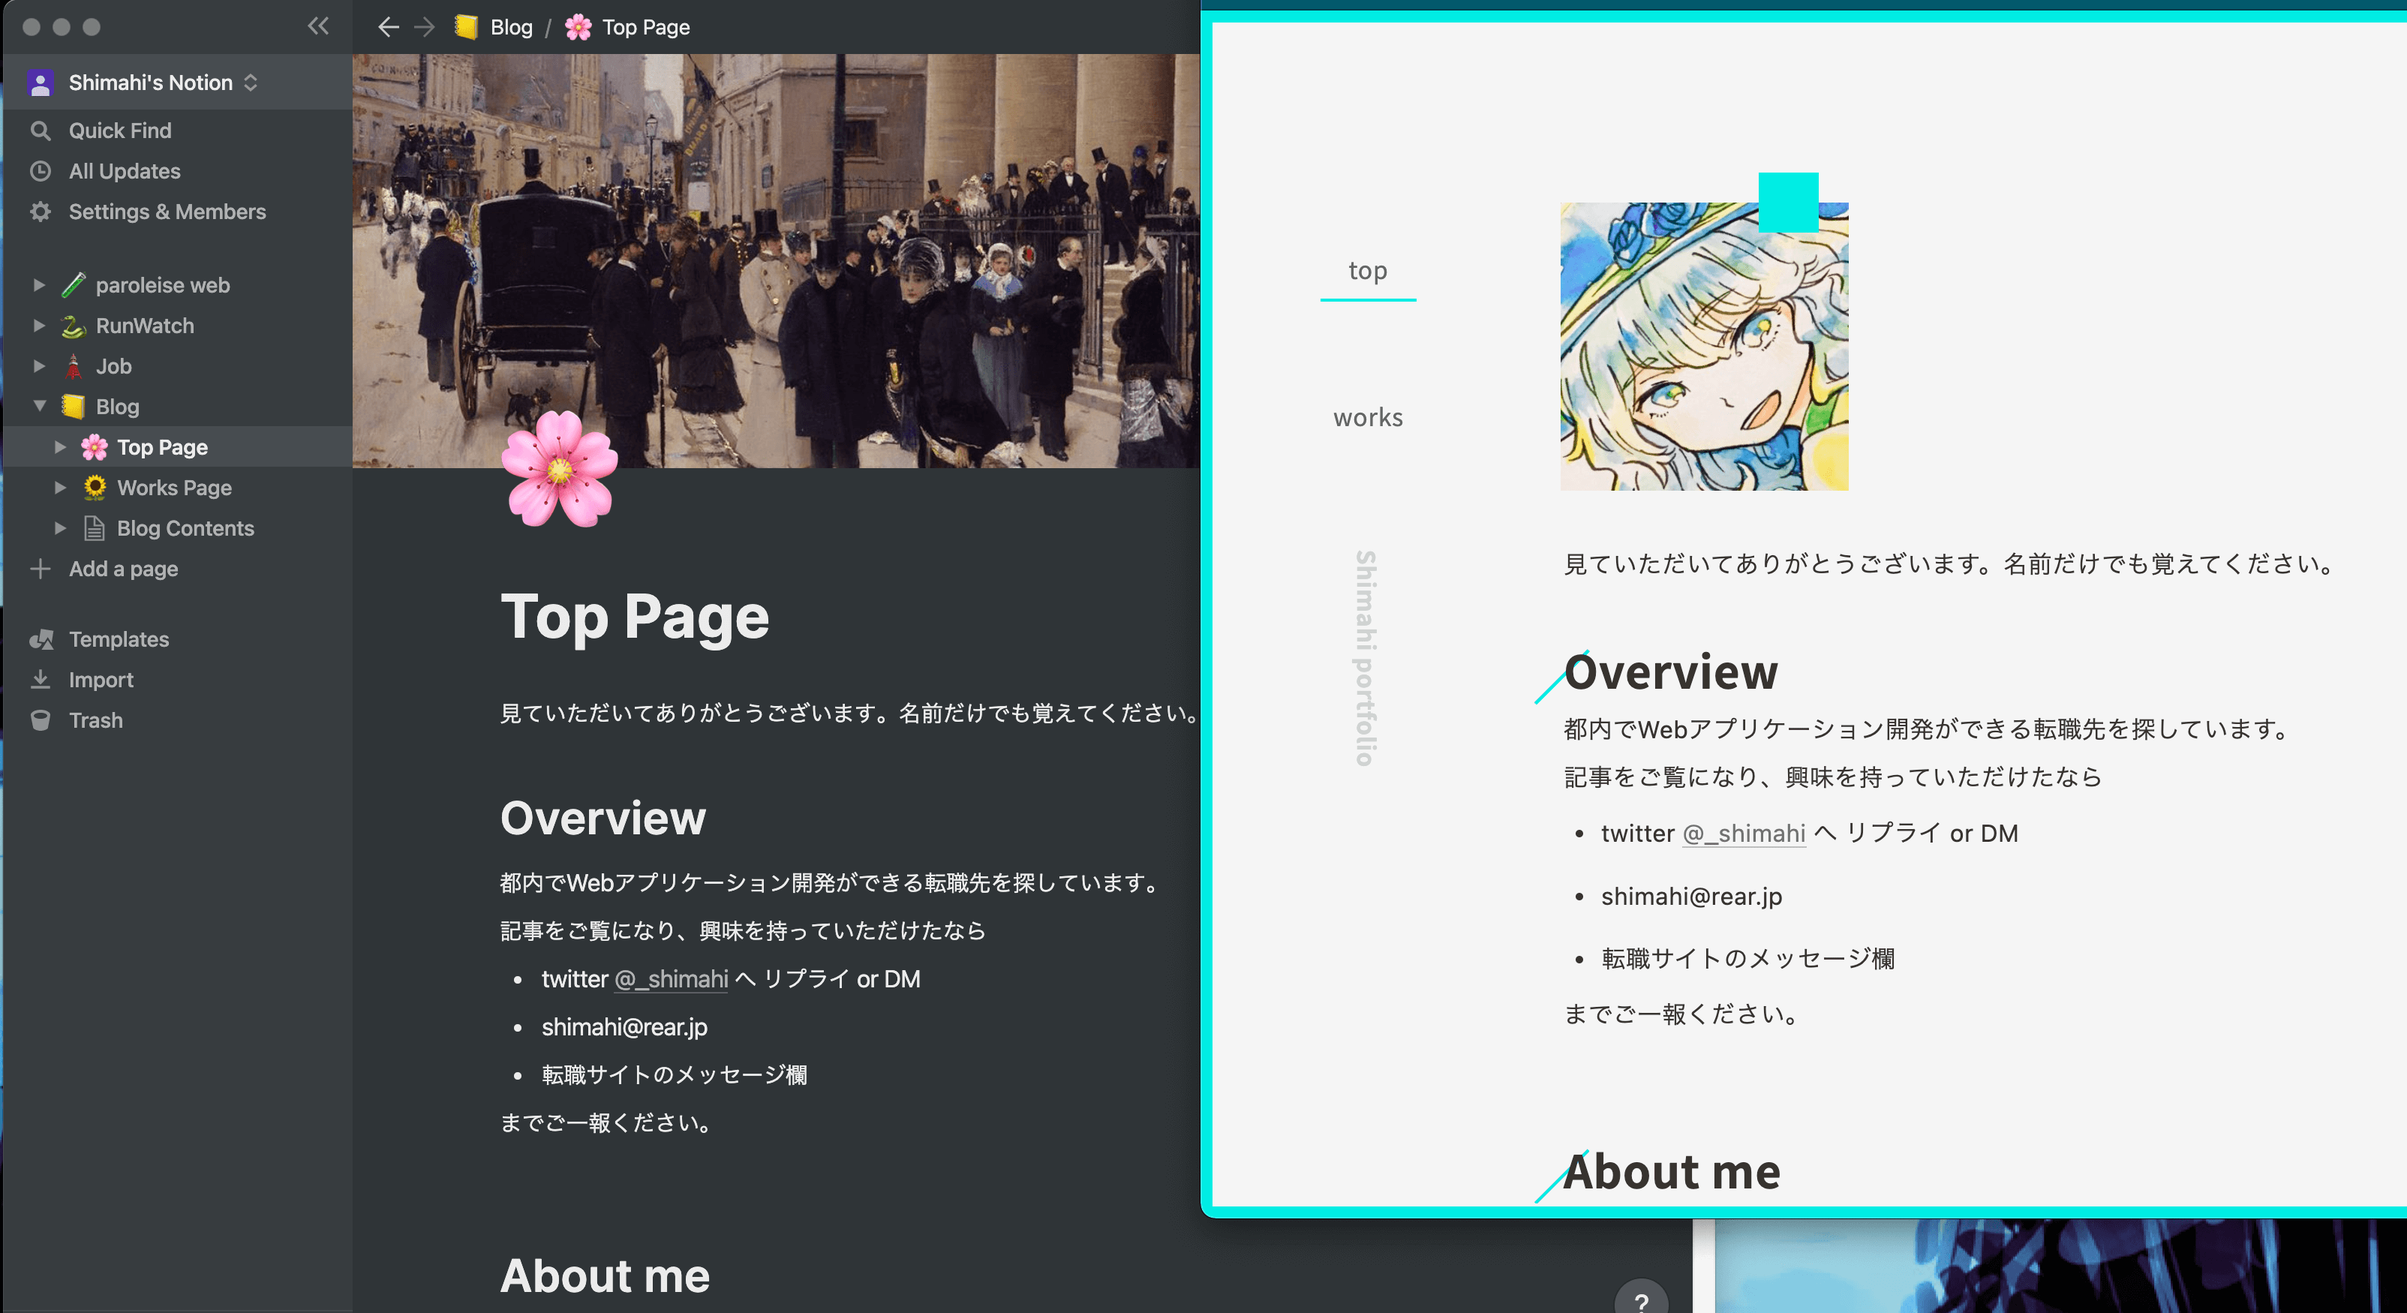
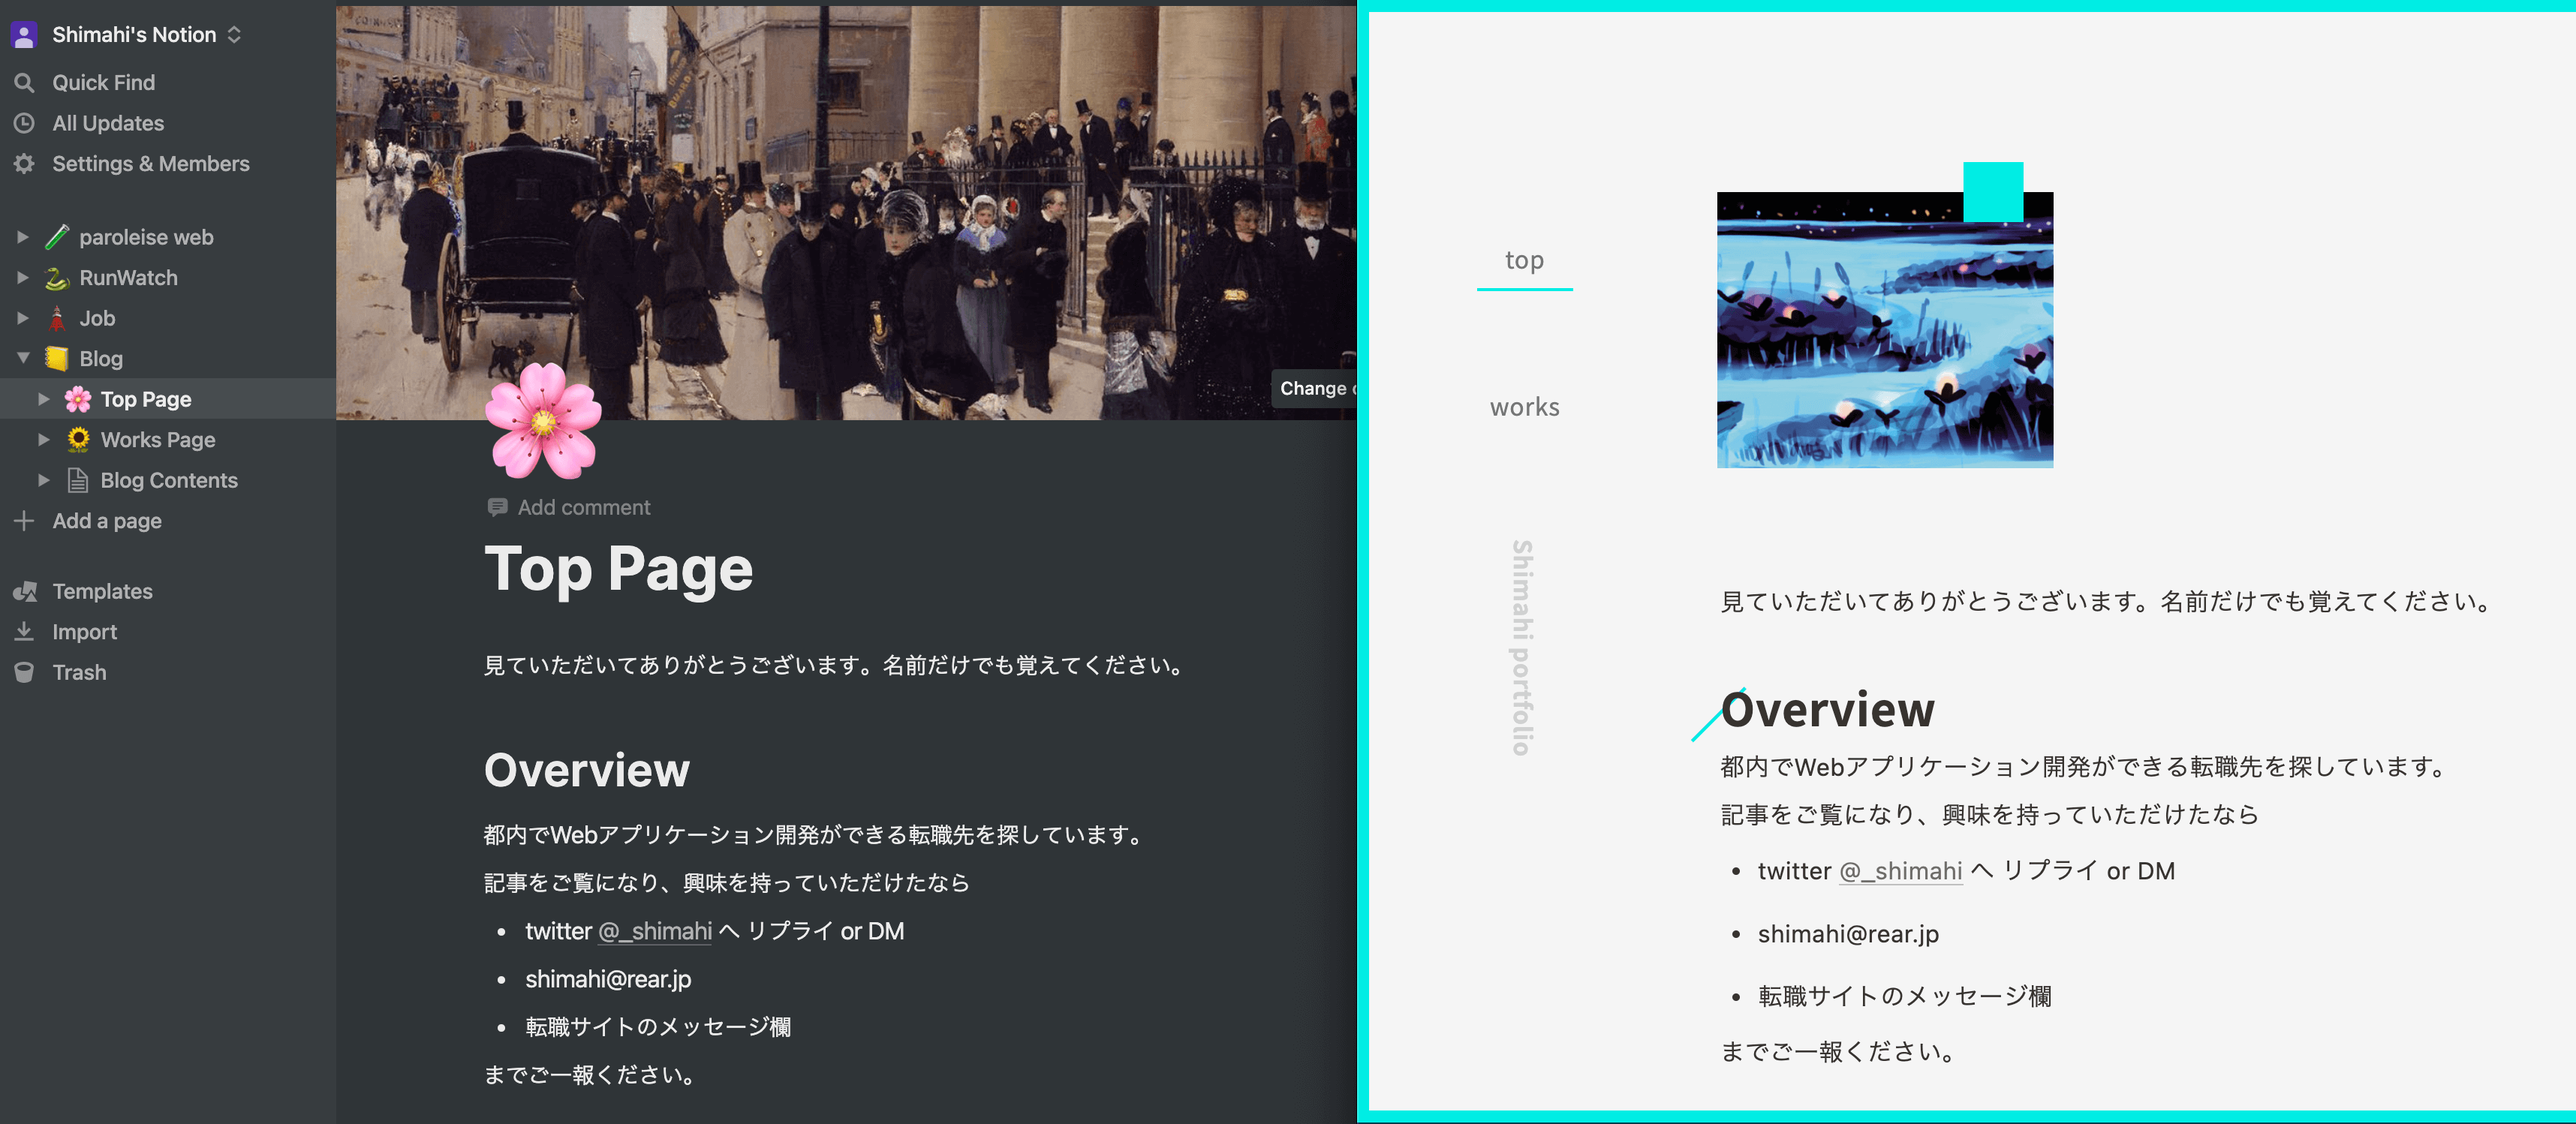
画像類差し替えなど

diff --git a/src/components/organisms/Portrait.tsx b/src/components/organisms/Portrait.tsx
@@ -1,12 +1,12 @@
 import tw, { css } from 'twin.macro'
-import topImage from 'waterfall.png'
+import topImage from 'assets/waterfall.png'
 
 export const Portrait = () => {
   return (
     <div
       css={css`
-        max-width: 270px;
-        ${tw`w-full h-auto mx-auto md:(mx-0 w-48 h-48) relative clearfix`}
+        max-width: 320px;
+        ${tw`w-full h-auto mx-auto md:(mx-0 w-56 h-56) relative clearfix`}
         &:after {
           ${tw`absolute block w-10 h-10 z-10 bg-main`}
           right: 20px;
@@ -14,7 +14,7 @@ export const Portrait = () => {
         }
       `}
     >
-      <img src={topImage} width={192} height={192} alt="me" tw="w-full h-auto md:w-48" />
+      <img src={topImage} width={240} height={240} alt="me" tw="w-full h-auto md:w-56" />
     </div>
   )
 }
